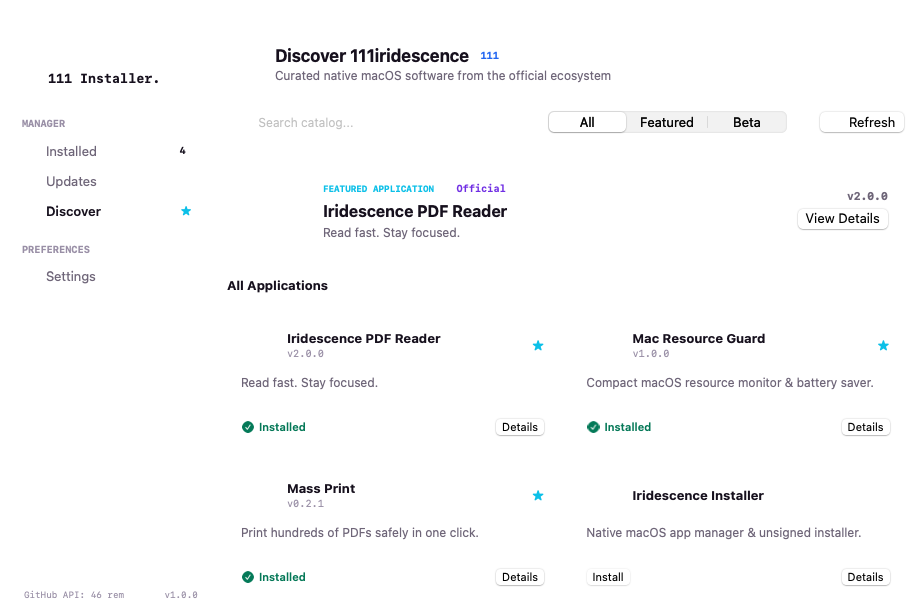
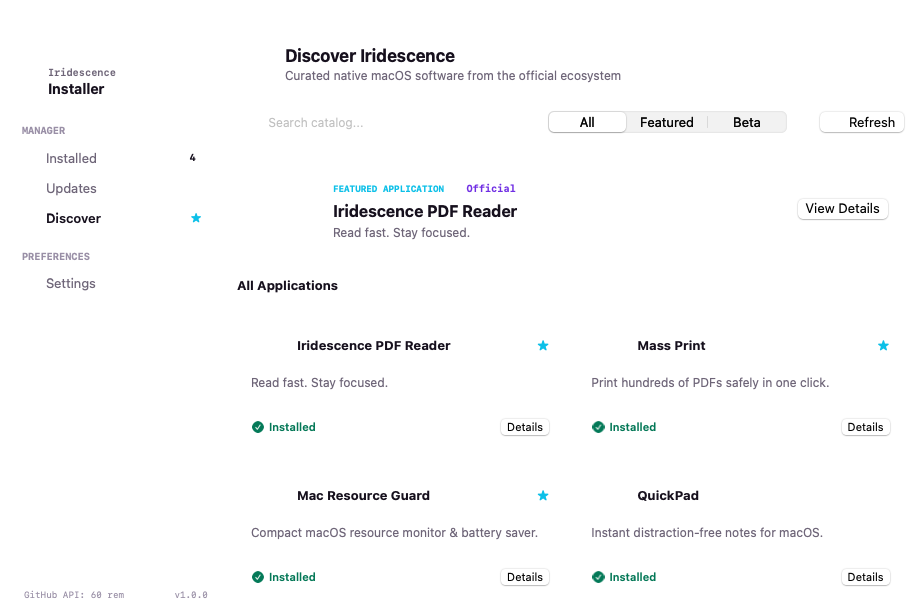
fix(ui): remove '111' badge pill and streamline branding to Iridescence Installer

diff --git a/Sources/IridescenceInstaller/UI/Installed/InstalledListView.swift b/Sources/IridescenceInstaller/UI/Installed/InstalledListView.swift
@@ -46,7 +46,7 @@ public struct InstalledListView: View {
             // Header
             PixelGridHeader(
                 title: "Installed Applications",
-                subtitle: "\(appState.installedApps.count) 111iridescence application\(appState.installedApps.count == 1 ? "" : "s") installed on this Mac",
+                subtitle: "\(appState.installedApps.count) Iridescence application\(appState.installedApps.count == 1 ? "" : "s") installed on this Mac",
                 accentColor: IridescenceTheme.deepViolet
             )
 
@@ -119,7 +119,7 @@ public struct InstalledListView: View {
                     Text("No Iridescence applications installed yet")
                         .font(.system(size: 14, weight: .semibold))
                         .foregroundColor(IridescenceTheme.textPrimary)
-                    Text("Visit the Discover tab to install apps from the 111iridescence portfolio.")
+                    Text("Visit the Discover tab to install apps from the Iridescence portfolio.")
                         .font(.system(size: 12))
                         .foregroundColor(IridescenceTheme.textSecondary)
                     Spacer()

diff --git a/Sources/IridescenceInstaller/UI/Navigation/SidebarView.swift b/Sources/IridescenceInstaller/UI/Navigation/SidebarView.swift
@@ -56,9 +56,14 @@ public struct SidebarPanel: View {
                         .foregroundColor(IridescenceTheme.luminousCyan)
                 }
 
-                Text("111 Installer.")
-                    .font(IridescenceTheme.fontMono(size: 13, weight: .bold))
-                    .foregroundColor(IridescenceTheme.textPrimary)
+                VStack(alignment: .leading, spacing: 1) {
+                    Text("Iridescence")
+                        .font(IridescenceTheme.fontMono(size: 10, weight: .semibold))
+                        .foregroundColor(IridescenceTheme.textSecondary)
+                    Text("Installer")
+                        .font(.system(size: 14, weight: .bold))
+                        .foregroundColor(IridescenceTheme.textPrimary)
+                }
 
                 Spacer()
             }
@@ -192,7 +197,7 @@ public struct SidebarPanel: View {
             .padding(.vertical, 8)
             .background(IridescenceTheme.surfaceSubtle.opacity(0.3))
         }
-        .frame(width: 210)
+        .frame(width: 220)
         .background(IridescenceTheme.surfaceSubtle.opacity(0.5))
     }
 }

diff --git a/Sources/IridescenceInstaller/UI/Theme/PixelGridHeader.swift b/Sources/IridescenceInstaller/UI/Theme/PixelGridHeader.swift
@@ -79,19 +79,9 @@ public struct PixelGridHeader: View {
                 }
 
                 VStack(alignment: .leading, spacing: 2) {
-                    HStack(spacing: 6) {
-                        Text(title)
-                            .font(.system(size: 17, weight: .bold))
-                            .foregroundColor(IridescenceTheme.textPrimary)
-
-                        Text("111")
-                            .font(IridescenceTheme.fontMono(size: 10, weight: .bold))
-                            .padding(.horizontal, 5)
-                            .padding(.vertical, 2)
-                            .background(IridescenceTheme.electricBlue.opacity(0.15))
-                            .foregroundColor(IridescenceTheme.electricBlue)
-                            .clipShape(Capsule())
-                    }
+                    Text(title)
+                        .font(.system(size: 17, weight: .bold))
+                        .foregroundColor(IridescenceTheme.textPrimary)
 
                     if let sub = subtitle {
                         Text(sub)

diff --git a/Sources/IridescenceInstaller/UI/Updates/UpdatesListView.swift b/Sources/IridescenceInstaller/UI/Updates/UpdatesListView.swift
@@ -82,7 +82,7 @@ public struct UpdatesListView: View {
                         .font(.system(size: 15, weight: .bold))
                         .foregroundColor(IridescenceTheme.textPrimary)
 
-                    Text("All tracked 111iridescence applications match the latest published releases.")
+                    Text("All tracked Iridescence applications match the latest published releases.")
                         .font(.system(size: 12))
                         .foregroundColor(IridescenceTheme.textSecondary)
 

diff --git a/Sources/IridescenceInstaller/UI/Discover/DiscoverCatalogView.swift b/Sources/IridescenceInstaller/UI/Discover/DiscoverCatalogView.swift
@@ -46,7 +46,7 @@ public struct DiscoverCatalogView: View {
         VStack(spacing: 0) {
             // Header
             PixelGridHeader(
-                title: "Discover 111iridescence",
+                title: "Discover Iridescence",
                 subtitle: "Curated native macOS software from the official ecosystem",
                 accentColor: IridescenceTheme.luminousCyan
             )
